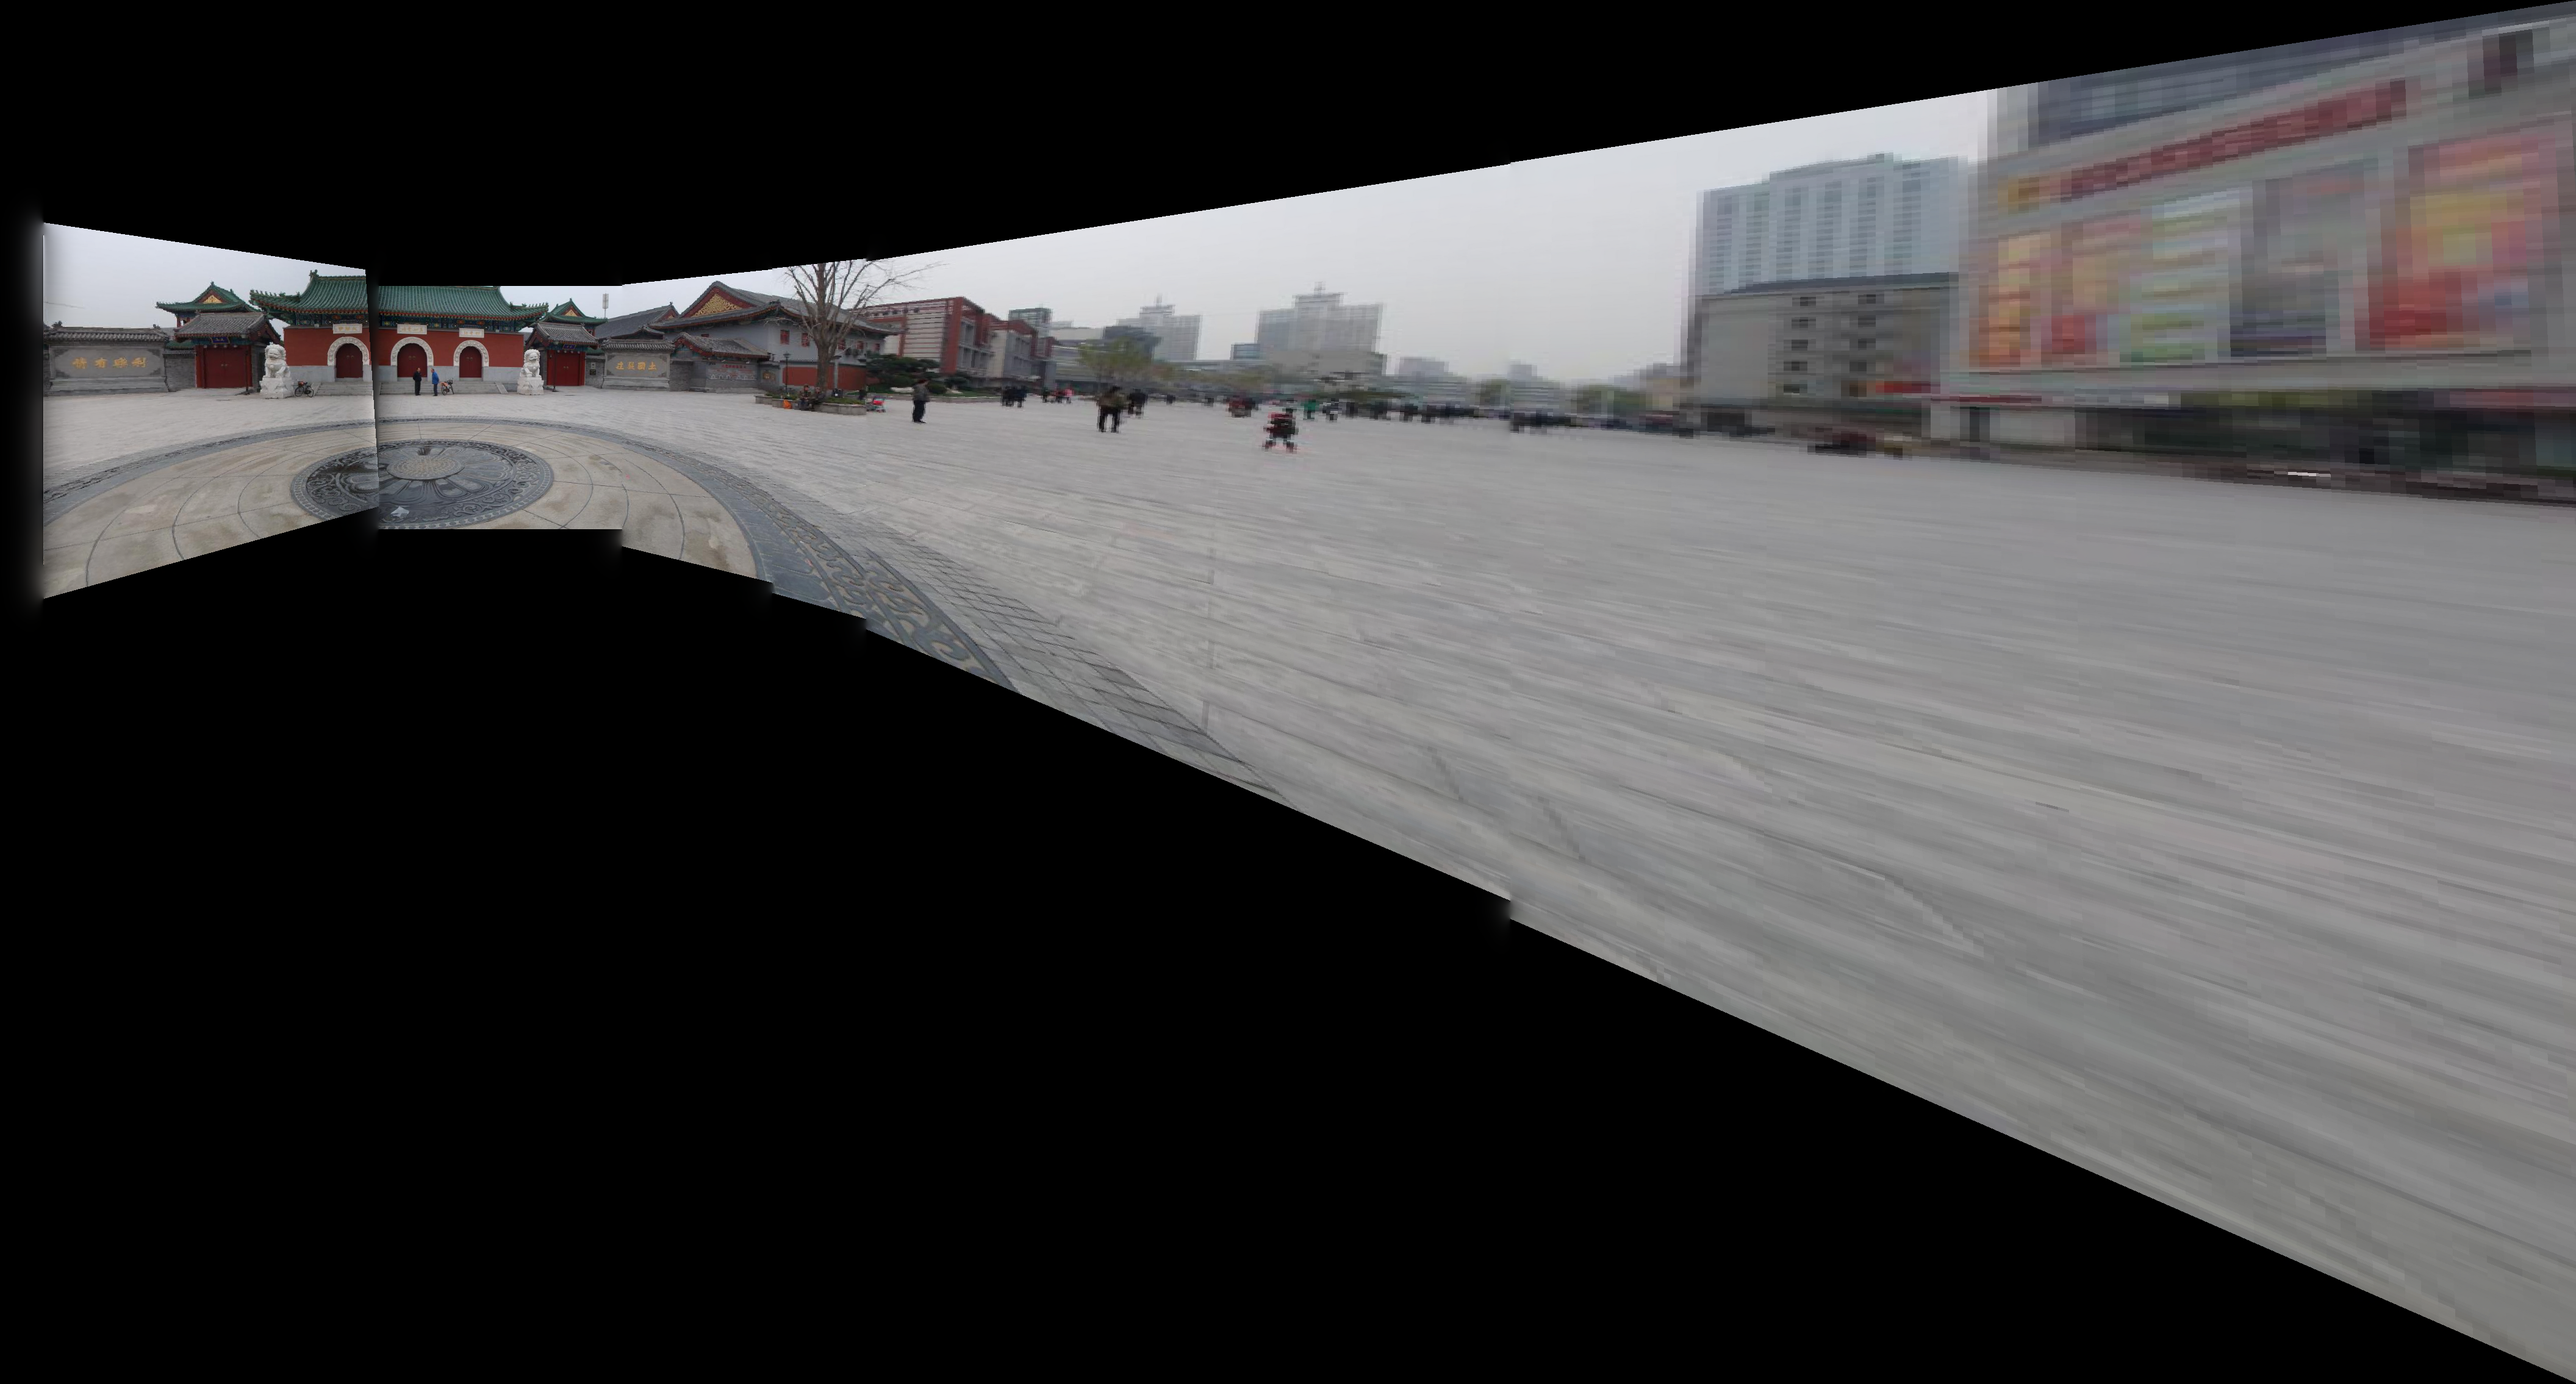
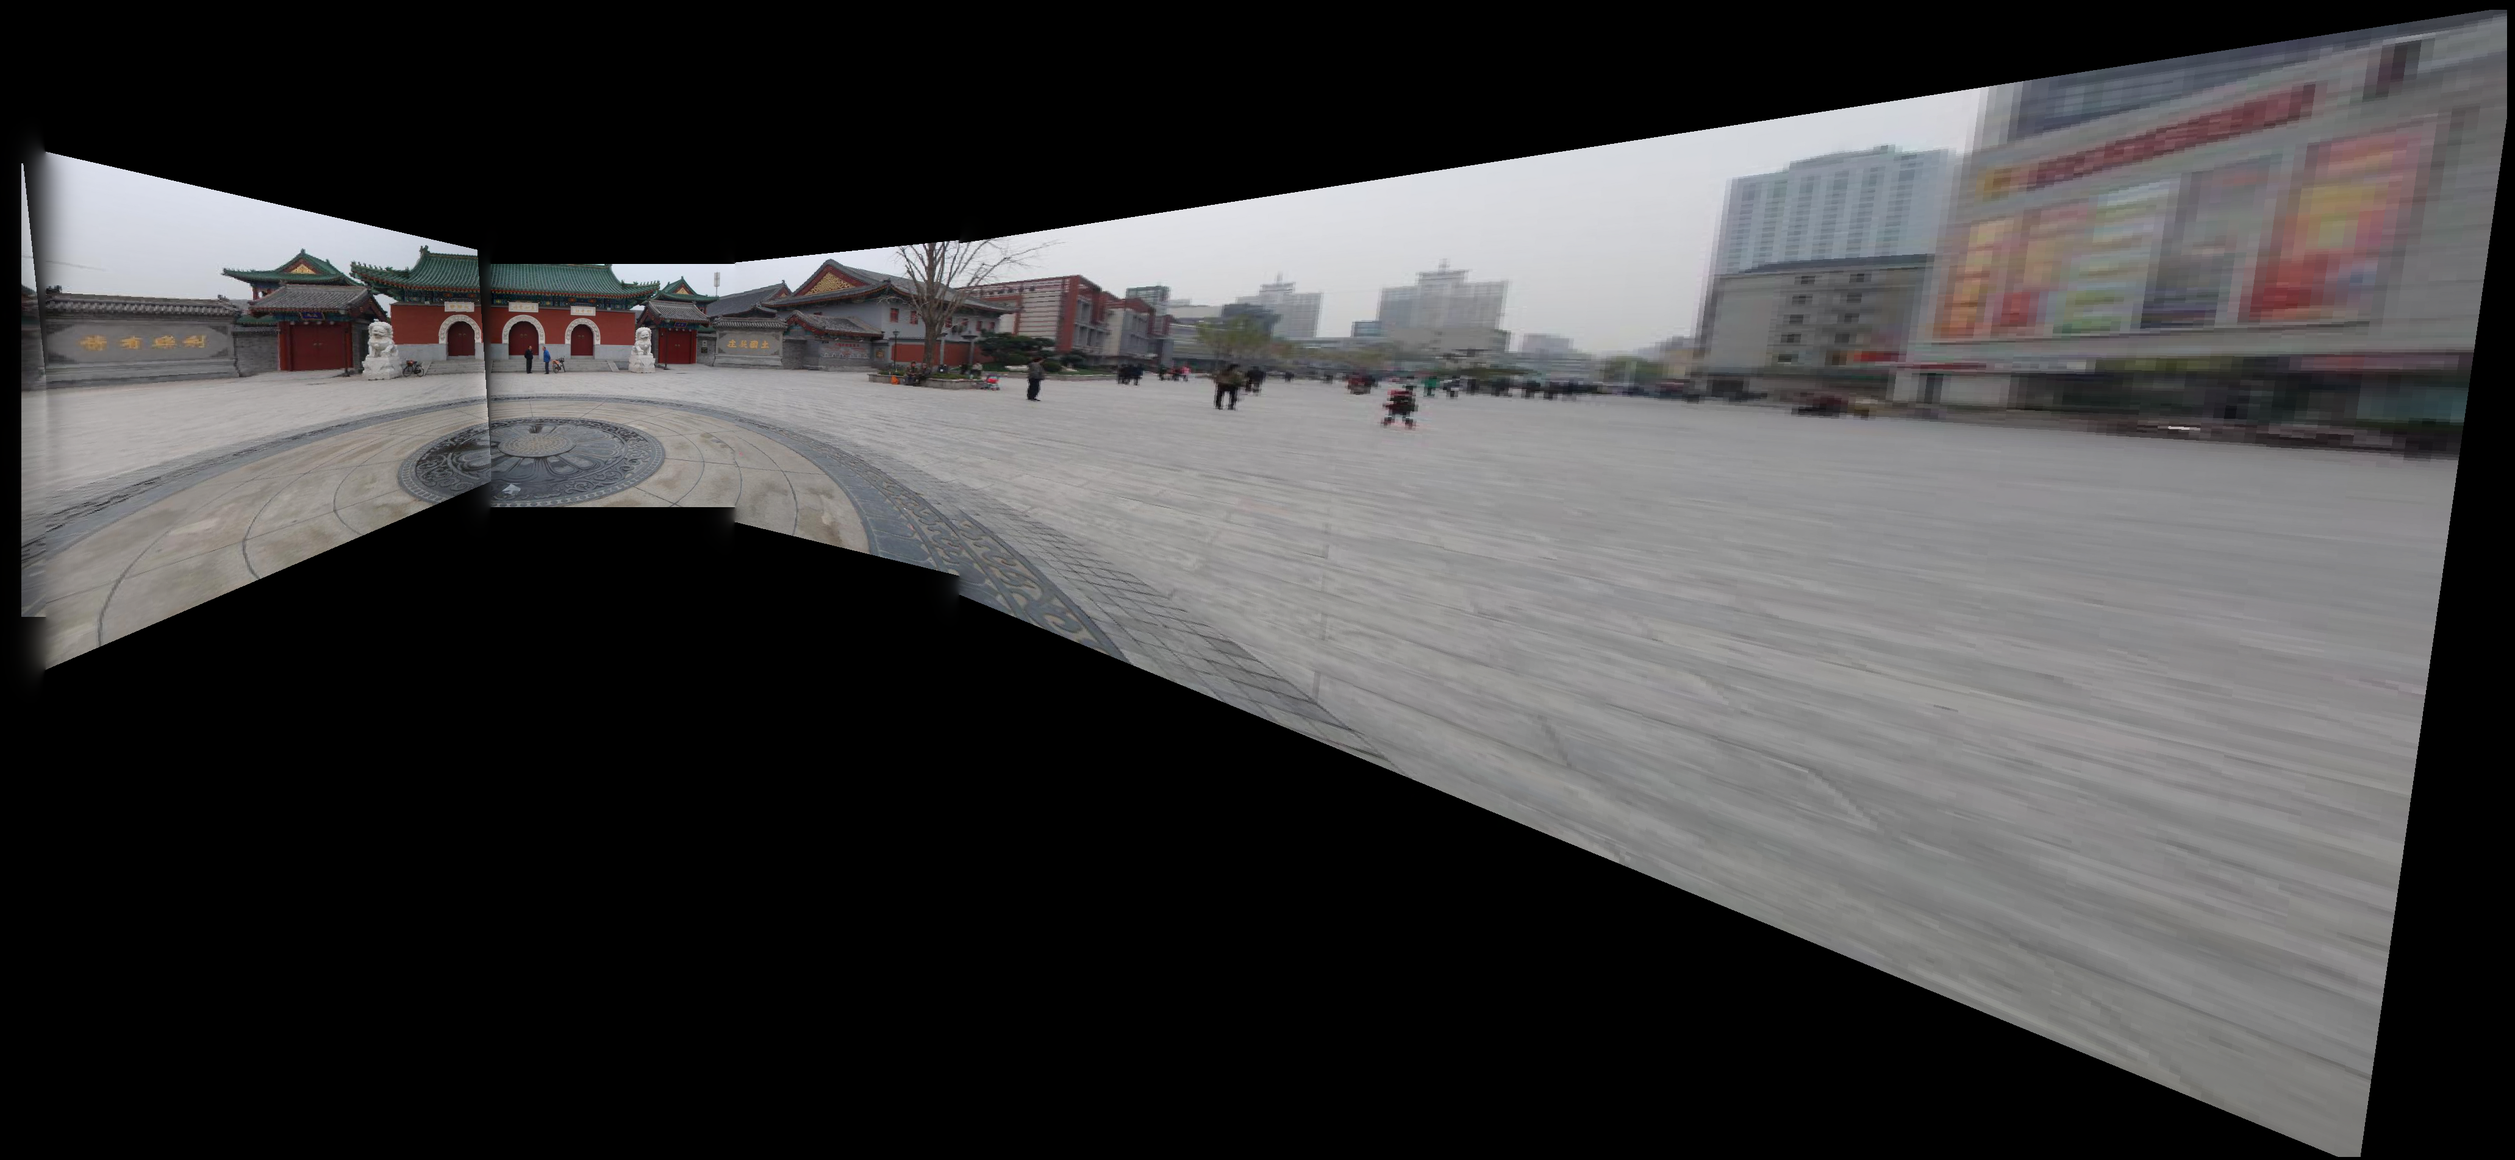
COMMIT

Changed region(s): [[0.0, 0.0, 1.0, 1.0], [0.5897, 0.5891, 0.6208, 0.6201]]

diff --git a/src/DarthVader/stitcher.py b/src/DarthVader/stitcher.py
@@ -1,3 +1,4 @@
+
 import cv2
 import numpy as np
 import glob
@@ -66,6 +67,7 @@ def ransac_homography(correspondences, iterations=3000, error_threshold=2, sampl
 
 
 def calculate_warp_bounds(H, width, height):
+    """Calculates the bounding box of the warped image."""
     corners = np.array([[0, width - 1, 0, width - 1],
                        [0, 0, height - 1, height - 1],
                        [1, 1, 1, 1]])
@@ -80,6 +82,7 @@ def calculate_warp_bounds(H, width, height):
 
 
 def warp_image(source, H, target, use_forward=False, offset=(2300, 800)):
+    """Warps the source image onto the destination image."""
 
     h, w, _ = source.shape
     H_inv = np.linalg.inv(H)
@@ -143,6 +146,7 @@ class PyramidBlender:
         return pyramid
 
     def laplacian_pyramid(self, img):
+        """Constructs a Laplacian pyramid."""
 
         pyramid = []
         for _ in range(self.levels - 1):
@@ -155,6 +159,7 @@ class PyramidBlender:
         return pyramid
 
     def blend_pyramids(self, lapA, lapB, mask_pyramid):
+        """Blends two Laplacian pyramids using a mask."""
         blended_pyramid = []
         for i, mask in enumerate(mask_pyramid):
             mask_3ch = cv2.merge((mask, mask, mask)) # Create 3 channel mask
@@ -164,18 +169,21 @@ class PyramidBlender:
 
 
     def reconstruct(self, pyramid):
+        """Reconstructs an image from a Laplacian pyramid."""
         img = pyramid[-1]
         for level in reversed(pyramid[:-1]):
             img = cv2.pyrUp(img, dstsize=level.shape[:2][::-1]).astype(float) + level.astype(float)
         return img
 
     def create_mask(self, img):
+        """Creates a binary mask from an image."""
         mask = np.all(img != 0, axis=2)
         mask_img = np.zeros(img.shape[:2], dtype=float)
         mask_img[mask] = 1.0
         return mask_img
 
     def blend(self, img1, img2):
+        """Blends two images using pyramid blending."""
 
         lap1 = self.laplacian_pyramid(img1)
         lap2 = self.laplacian_pyramid(img2)
@@ -183,6 +191,7 @@ class PyramidBlender:
         mask1 = self.create_mask(img1).astype(bool)
         mask2 = self.create_mask(img2).astype(bool)
     
+        # Handle potential size differences in masks
         if mask1.shape != mask2.shape:
             min_shape = np.minimum(mask1.shape, mask2.shape)
             mask1 = mask1[:min_shape[0], :min_shape[1]]
@@ -208,6 +217,7 @@ class PyramidBlender:
 
 
 class PanaromaStitcher:
+    """Stitches images together to create a panorama."""
 
     def __init__(self, max_features=30, match_ratio=0.75, ransac_err=2.0, 
                  pyr_levels=6, warp_dim=(600, 400), image_offset=(2300, 800)):
@@ -222,30 +232,35 @@ class PanaromaStitcher:
 
 
     def make_panaroma_for_images_in(self, path):
+        """Creates a panorama from images in a directory."""
 
         self.img_files = sorted(glob.glob(os.path.join(path, '*')))
 
         img_count = len(self.img_files)
         print(f"Found {img_count} images for stitching.")
+        
+        
 
         self.scene_id = self._get_scene_id(self.img_files[0])
         output_path = f'outputs/scene{self.scene_id}/custom'
         os.makedirs(output_path, exist_ok=True)
 
+        final_H = np.eye(3)  
+        
 
         if img_count == 6:
-            self._stitch_six()
+            final_H = self._stitch_six()
         elif img_count == 5:
-            self._stitch_five()
+            final_H = self._stitch_five()
         elif img_count == 4:
-            self._stitch_four()
+            final_H = self._stitch_four()
         else:
-            self._stitch_three()
+            final_H = self._stitch_three()
 
 
         final_panorama = self._blend_all()
         cv2.imwrite(os.path.join(output_path, 'blended_image.png'), final_panorama)
-        return final_panorama, None
+        return final_panorama, final_H
     
     
     def _stitch_six(self):
@@ -259,6 +274,7 @@ class PanaromaStitcher:
         H = self._stitch_and_save(2, 3, H)  # 2->3
         H = self._stitch_and_save(3, 4, H)  # 3->4
         H = self._stitch_and_save(4, 5, H)  # 4->5
+        return H
 
     def _stitch_five(self):
         """Stitches a five-image scene."""
@@ -271,7 +287,7 @@ class PanaromaStitcher:
         H = self._stitch_and_save(2, 2, H)
         H = self._stitch_and_save(2, 3, H)
         H = self._stitch_and_save(3, 4, H)
-
+        return H
 
     def _stitch_four(self):
         """Stitches a four-image scene."""
@@ -282,18 +298,22 @@ class PanaromaStitcher:
         H = np.eye(3)
         H = self._stitch_and_save(2, 2, H) # Changed indices
         H = self._stitch_and_save(2, 3, H) # Changed indices
+        return H
 
     def _stitch_three(self):
         """Stitches a three-image scene."""
         H = np.eye(3)
         H = self._stitch_and_save(1, 0, H)
-        H = self._stitch_and_save(1, 1, H) # Reference
+        H = self._stitch_and_save(1, 1, H) # 
+        return H
 
 
 
     def _stitch_and_save(self, src_index, dst_index, prev_H):
+        """Stitches two images and saves the result."""
 
         canvas = np.zeros((3000, 6000, 3), dtype=np.uint8)
+
         src_img = cv2.imread(self.img_files[src_index])
         dst_img = cv2.imread(self.img_files[dst_index])
 
@@ -308,7 +328,6 @@ class PanaromaStitcher:
 
         kp_pairs, src_pts, dst_pts = find_matches(dst_resized, src_resized, max_matches=self.max_features)
 
-
         if len(kp_pairs) < 4:
             print("Error: Not enough matches found.")
             return prev_H
@@ -318,12 +337,17 @@ class PanaromaStitcher:
         if H is None:
             return prev_H
 
-        cumulative_H = np.dot(prev_H, H)
 
-        warp_image(dst_resized, cumulative_H, canvas, offset=self.offset)
+        # Correctly apply cumulative homography ONLY when warping subsequent images
+        if np.array_equal(prev_H, np.eye(3)):  # First image, no previous H
+            warp_image(dst_resized, H, canvas, offset=self.offset)
+            cumulative_H = H # Initialize cumulative_H
+        else:
+            cumulative_H = np.dot(prev_H, H)
+            warp_image(dst_resized, cumulative_H, canvas, offset=self.offset)
 
 
-        output_file = f'outputs/scene{self.scene_id}/custom/warped_{src_index}_{dst_index}.png'
+        output_file = f'outputs/scene{self.scene_id}/custom/warped_{dst_index}.png' # unique filenames
         cv2.imwrite(output_file, canvas)
         return cumulative_H
 
@@ -334,6 +358,9 @@ class PanaromaStitcher:
 
         output_dir = f'outputs/scene{self.scene_id}/custom'
         warped_files = sorted(glob.glob(os.path.join(output_dir, 'warped_*.png')))
+
+        if not warped_files:
+            raise ValueError("No warped images found for blending.")
 
         blender = PyramidBlender(levels=self.pyr_levels)
         final_image = cv2.imread(warped_files[0])
@@ -347,6 +374,7 @@ class PanaromaStitcher:
 
 
     def _get_scene_id(self, file_path):
+        """Extracts the scene ID from the file path."""
         dir_name = os.path.basename(os.path.dirname(file_path))
         scene_id = ''.join(filter(str.isdigit, dir_name))
         return int(scene_id) if scene_id.isdigit() else 1
